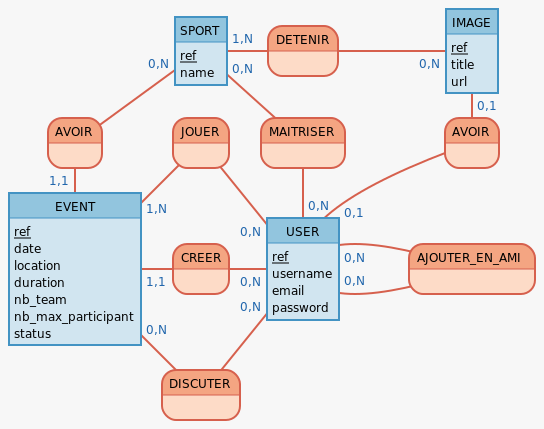
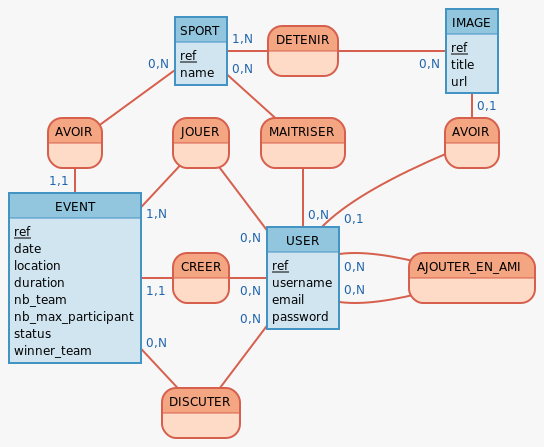
:hammer: MCD + MLD

diff --git a/docs/db_structure/mld.md b/docs/db_structure/mld.md
@@ -1,6 +1,7 @@
 # Conception Merise : MLD
 
-EVENT (id INTEGER, event_date DATE, location TEXT, duration INTEGER, nb_team INTEGER, nb_max_participant INTEGER, status TEXT, #user_id(id), #sport_id(name))
+<!-- winner_team -> 0: by default, 1: winners, 2: loosers, 3: exeaco -->
+EVENT (id INTEGER, event_date DATE, location TEXT, duration INTEGER, nb_team INTEGER, nb_max_participant INTEGER, status TEXT, winner_team INTEGER, #user_id(id), #sport_id(name))
 
 USER (id INTEGER, username TEXT, email TEXT, password TEXT, #image_id(url))
 
@@ -9,7 +10,8 @@ SPORT (id INTEGER, name TEXT)
 IMAGE (id INTEGER, title TEXT, url TEXT)
 
 <!-- Convertion : JOUER, 1N EVENT, 0N USER -->
-EVENT_ON_USER (event_id INTEGER, user_id INTEGER)
+<!-- team = 0 by default, 1 if the player is in the first team, 2 for the second one -->
+EVENT_ON_USER (event_id INTEGER, user_id INTEGER, team INTEGER)
 
 <!-- Convertion : AJOUTER_EN_AMI, 0N USER, 0N USER -->
 USER_ON_FRIEND (user_ask_id INTEGER, user_friend_id INTEGER)

diff --git a/docs/db_structure/mcd.md b/docs/db_structure/mcd.md
@@ -12,7 +12,7 @@ MAITRISER, 0N SPORT, 0N USER
 :
 AVOIR, 01 IMAGE, 01 USER
 
-EVENT : ref, date, location, duration, nb_team, nb_max_participant, status
+EVENT : ref, date, location, duration, nb_team, nb_max_participant, status, winner_team
 CREER, 11 EVENT, 0N USER
 USER : ref, username, email, password
 :
